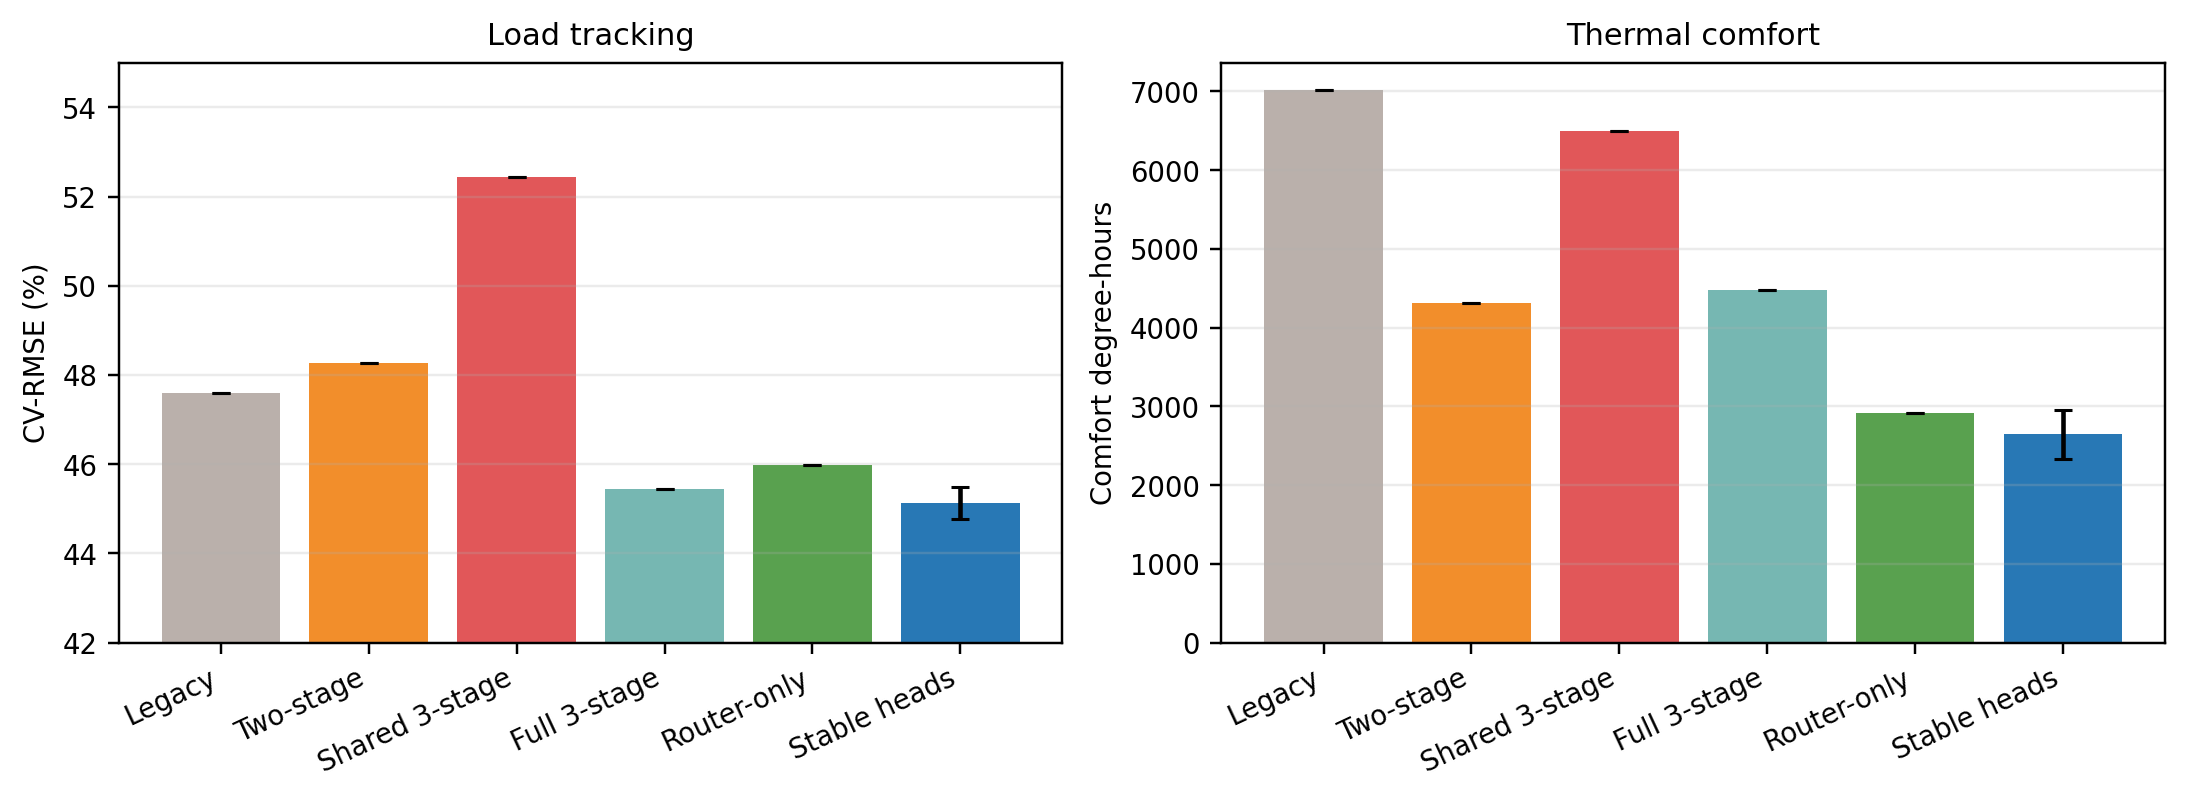
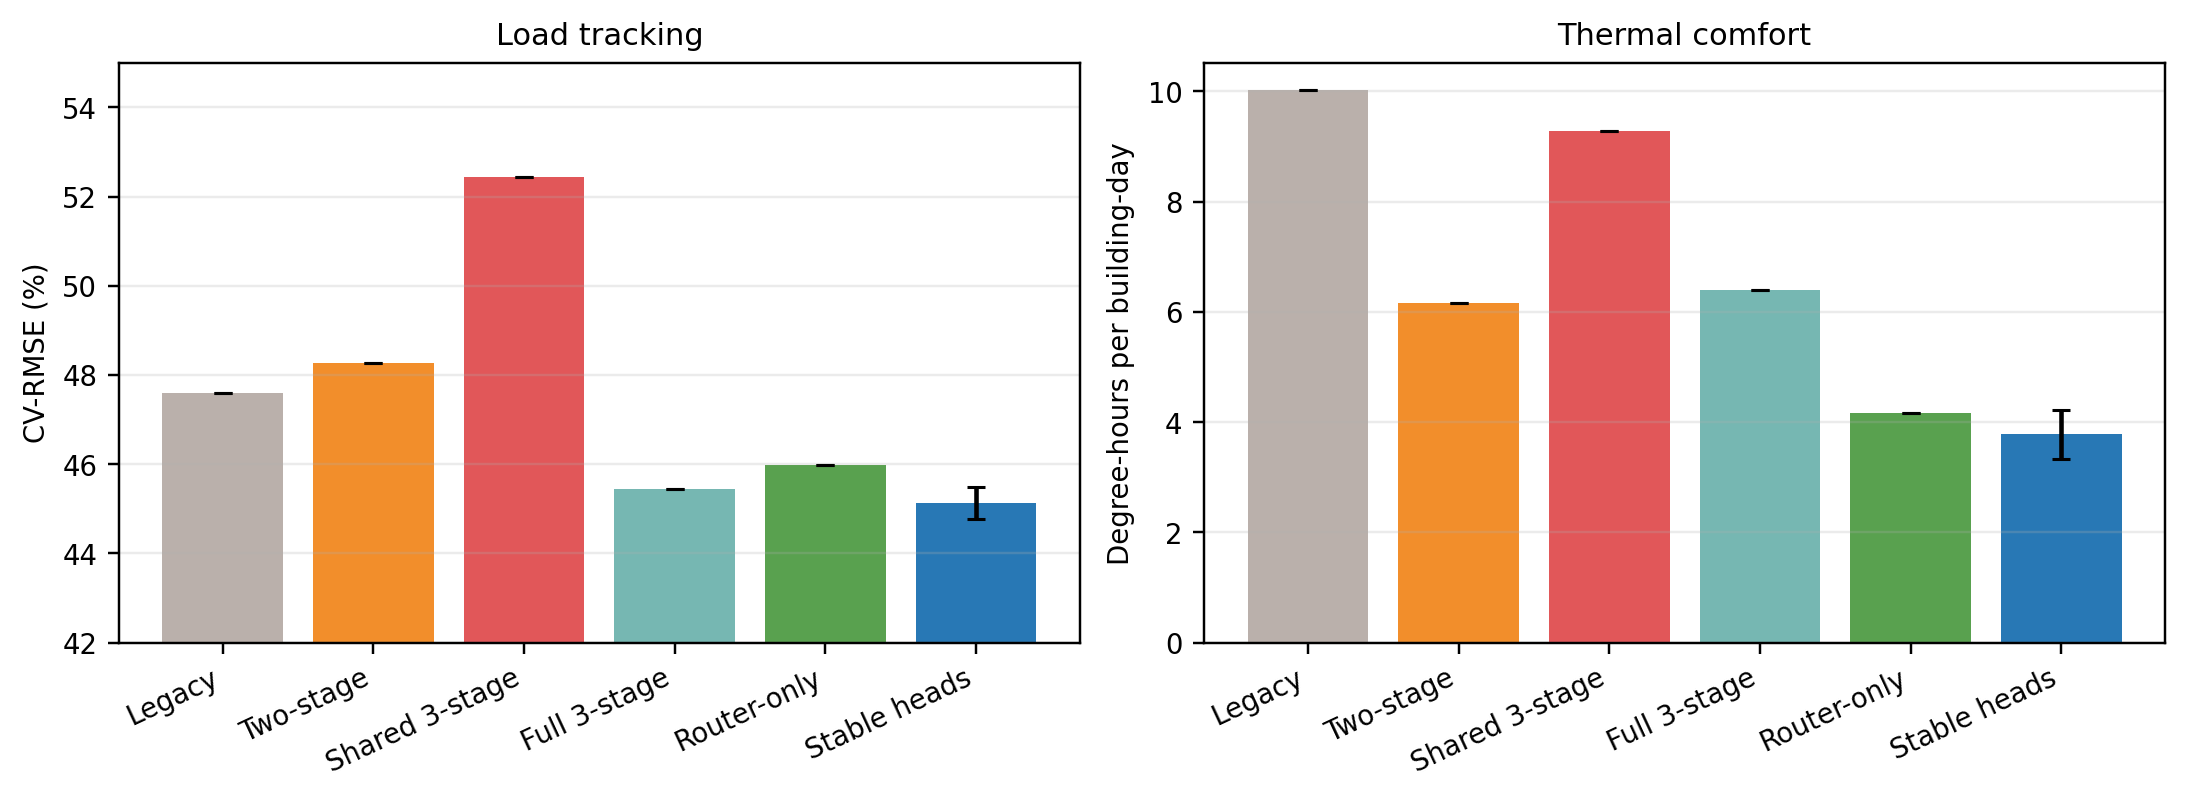
Update the comfort hours calculation, change it to be based on the building's daily average, and adjust the related documents to reflect the new metrics.

diff --git a/report2/introduction.tex b/report2/introduction.tex
@@ -22,8 +22,9 @@ building-control algorithms \cite{citylearn2020,citylearnv2}. The experiment
 follows the IEA EBC Annex 96 Common Exercise 1 benchmark: 25 single-family homes
 are controlled as one portfolio to track a daily reference load profile using
 battery and HVAC flexibility. Evaluation covers CV-RMSE, NMBE, indoor comfort
-(measured as temperature deviation multiplied by duration), energy use, peak
-demand, ramping, load factor, and fairness. Vermont uses
+(measured as temperature deviation multiplied by duration and averaged per
+building per test day), energy use, peak demand, ramping, load factor, and
+fairness. Vermont uses
 January for training and February for testing, while Texas uses August and
 September.
 
@@ -31,8 +32,10 @@ September.
 因此，当前建筑能源研究正在从固定规则控制逐渐转向强化学习和多智能体协同。本项目使用
 CityLearn，这是一个能够以标准化、可复现方式比较建筑控制算法的开放仿真环境。实验采用
 IEA EBC Annex 96 Common Exercise 1 基准：把 25 栋独立住宅作为一个建筑组合，利用电池
-和 HVAC 灵活性跟踪每日参考负荷曲线。评价指标包括 CV-RMSE、NMBE、室内舒适度（超出温度乘超出时间）、能耗、
-峰值需求、爬坡、负荷率和公平性。Vermont 使用一月训练、二月测试，Texas 使用八月训练、
+和 HVAC 灵活性跟踪每日参考负荷曲线。评价指标包括 CV-RMSE、NMBE、室内舒适度、能耗、
+峰值需求、爬坡、负荷率和公平性。其中，室内舒适度使用超出温度乘超出时间计算，并按每栋
+建筑、每天取平均。
+Vermont 使用一月训练、二月测试，Texas 使用八月训练、
 九月测试。
 \end{zhtranslation}
 

diff --git a/report2/build_figures.py b/report2/build_figures.py
@@ -141,11 +141,13 @@ def save_router_progression() -> None:
     cv = list(pd.to_numeric(singles["primary_load_cv_rmse_pct"])) + [
         float(pd.to_numeric(stable["primary_load_cv_rmse_pct"]).mean())
     ]
-    degree = list(pd.to_numeric(singles["primary_comfort_degree_hours_total"])) + [
-        float(pd.to_numeric(stable["primary_comfort_degree_hours_total"]).mean())
+    degree = list(pd.to_numeric(singles["primary_comfort_degree_hours_per_building_day"])) + [
+        float(pd.to_numeric(stable["primary_comfort_degree_hours_per_building_day"]).mean())
     ]
     cv_err = [0.0] * 5 + [float(pd.to_numeric(stable["primary_load_cv_rmse_pct"]).std(ddof=1))]
-    degree_err = [0.0] * 5 + [float(pd.to_numeric(stable["primary_comfort_degree_hours_total"]).std(ddof=1))]
+    degree_err = [0.0] * 5 + [
+        float(pd.to_numeric(stable["primary_comfort_degree_hours_per_building_day"]).std(ddof=1))
+    ]
 
     fig, axes = plt.subplots(1, 2, figsize=(10, 3.7))
     colors = ["#bab0ab", "#f28e2b", "#e15759", "#76b7b2", "#59a14f", "#2878b5"]
@@ -155,7 +157,7 @@ def save_router_progression() -> None:
     axes[0].set_ylim(42, 55)
     axes[0].set_title("Load tracking")
     axes[1].bar(x, degree, yerr=degree_err, capsize=3, color=colors)
-    axes[1].set_ylabel("Comfort degree-hours")
+    axes[1].set_ylabel("Degree-hours per building-day")
     axes[1].set_title("Thermal comfort")
     for ax in axes:
         ax.set_xticks(x, labels, rotation=25, ha="right")
